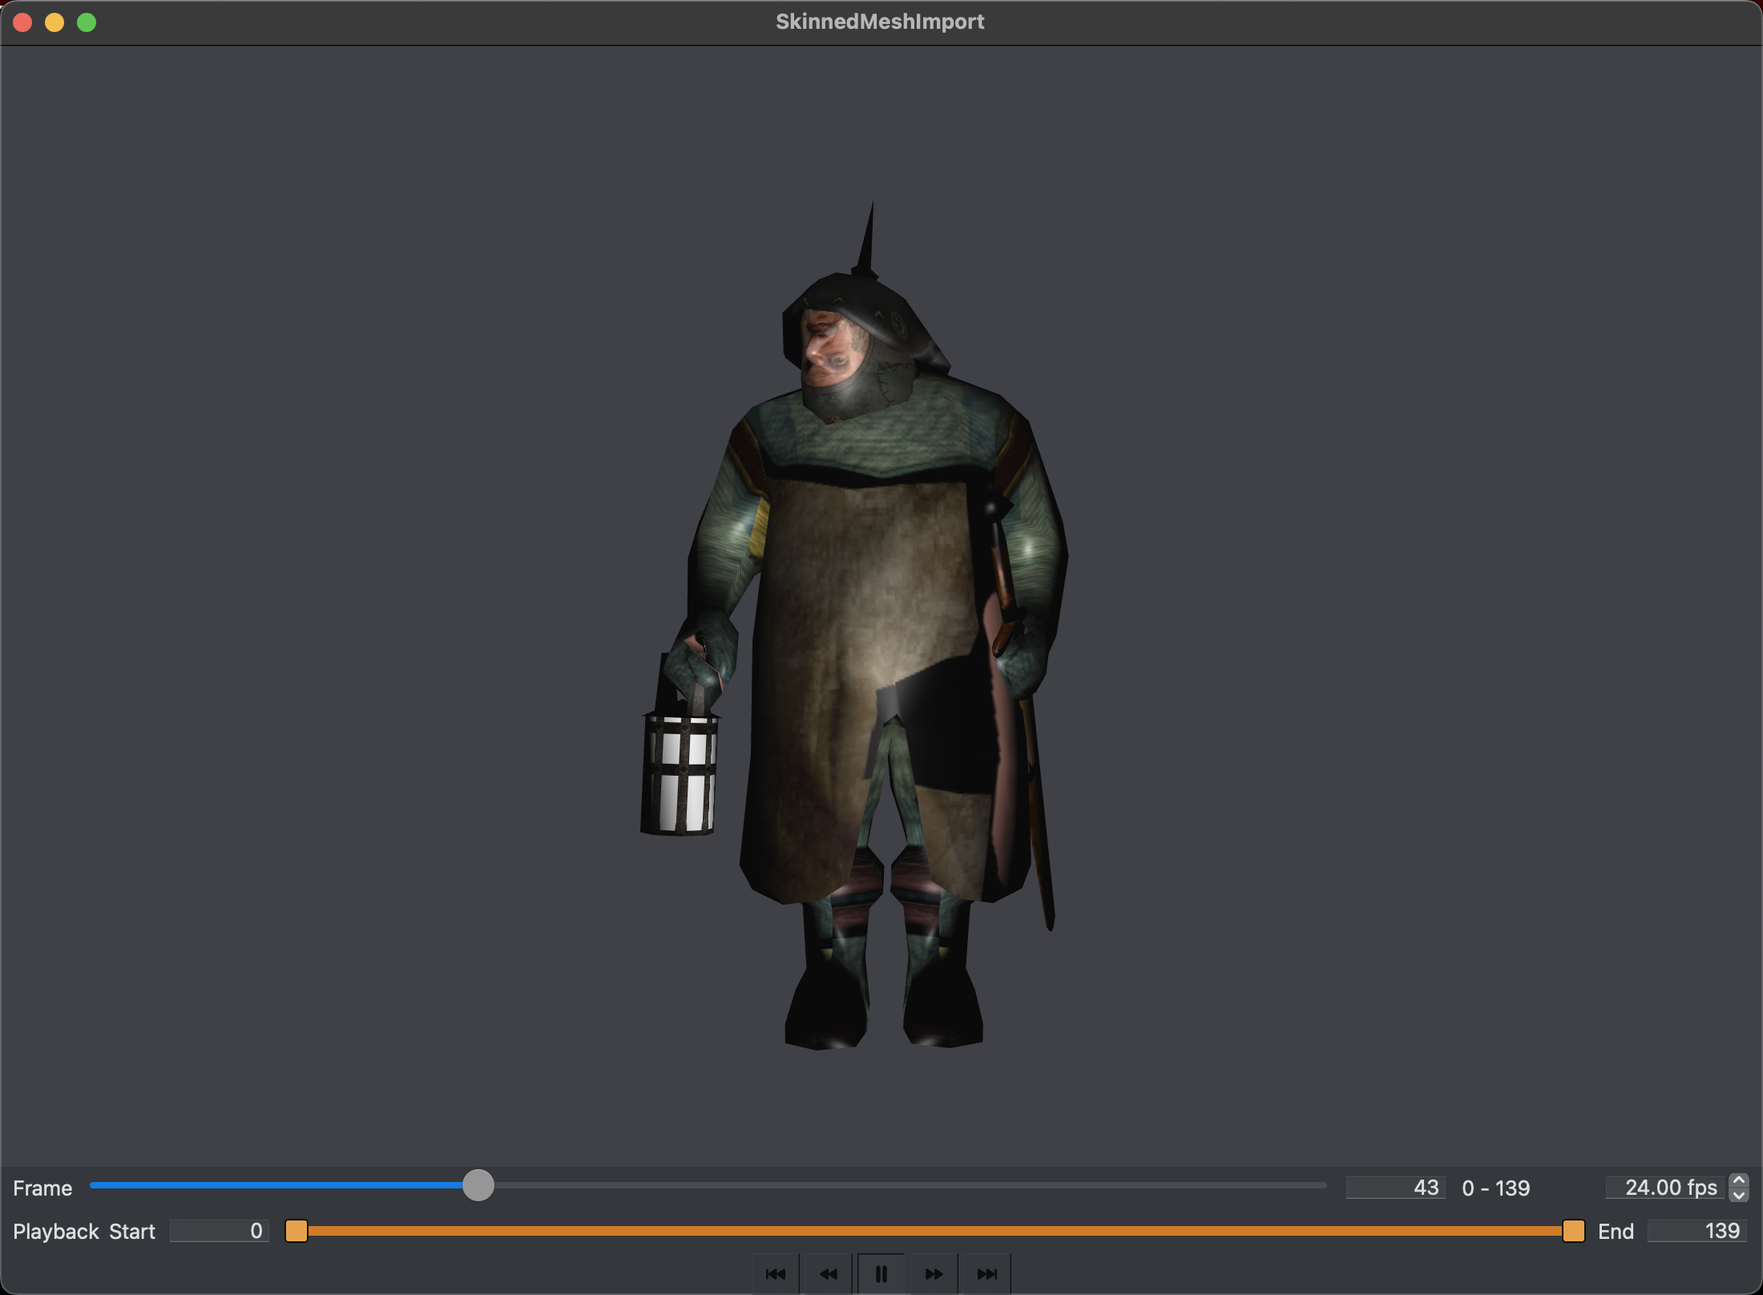
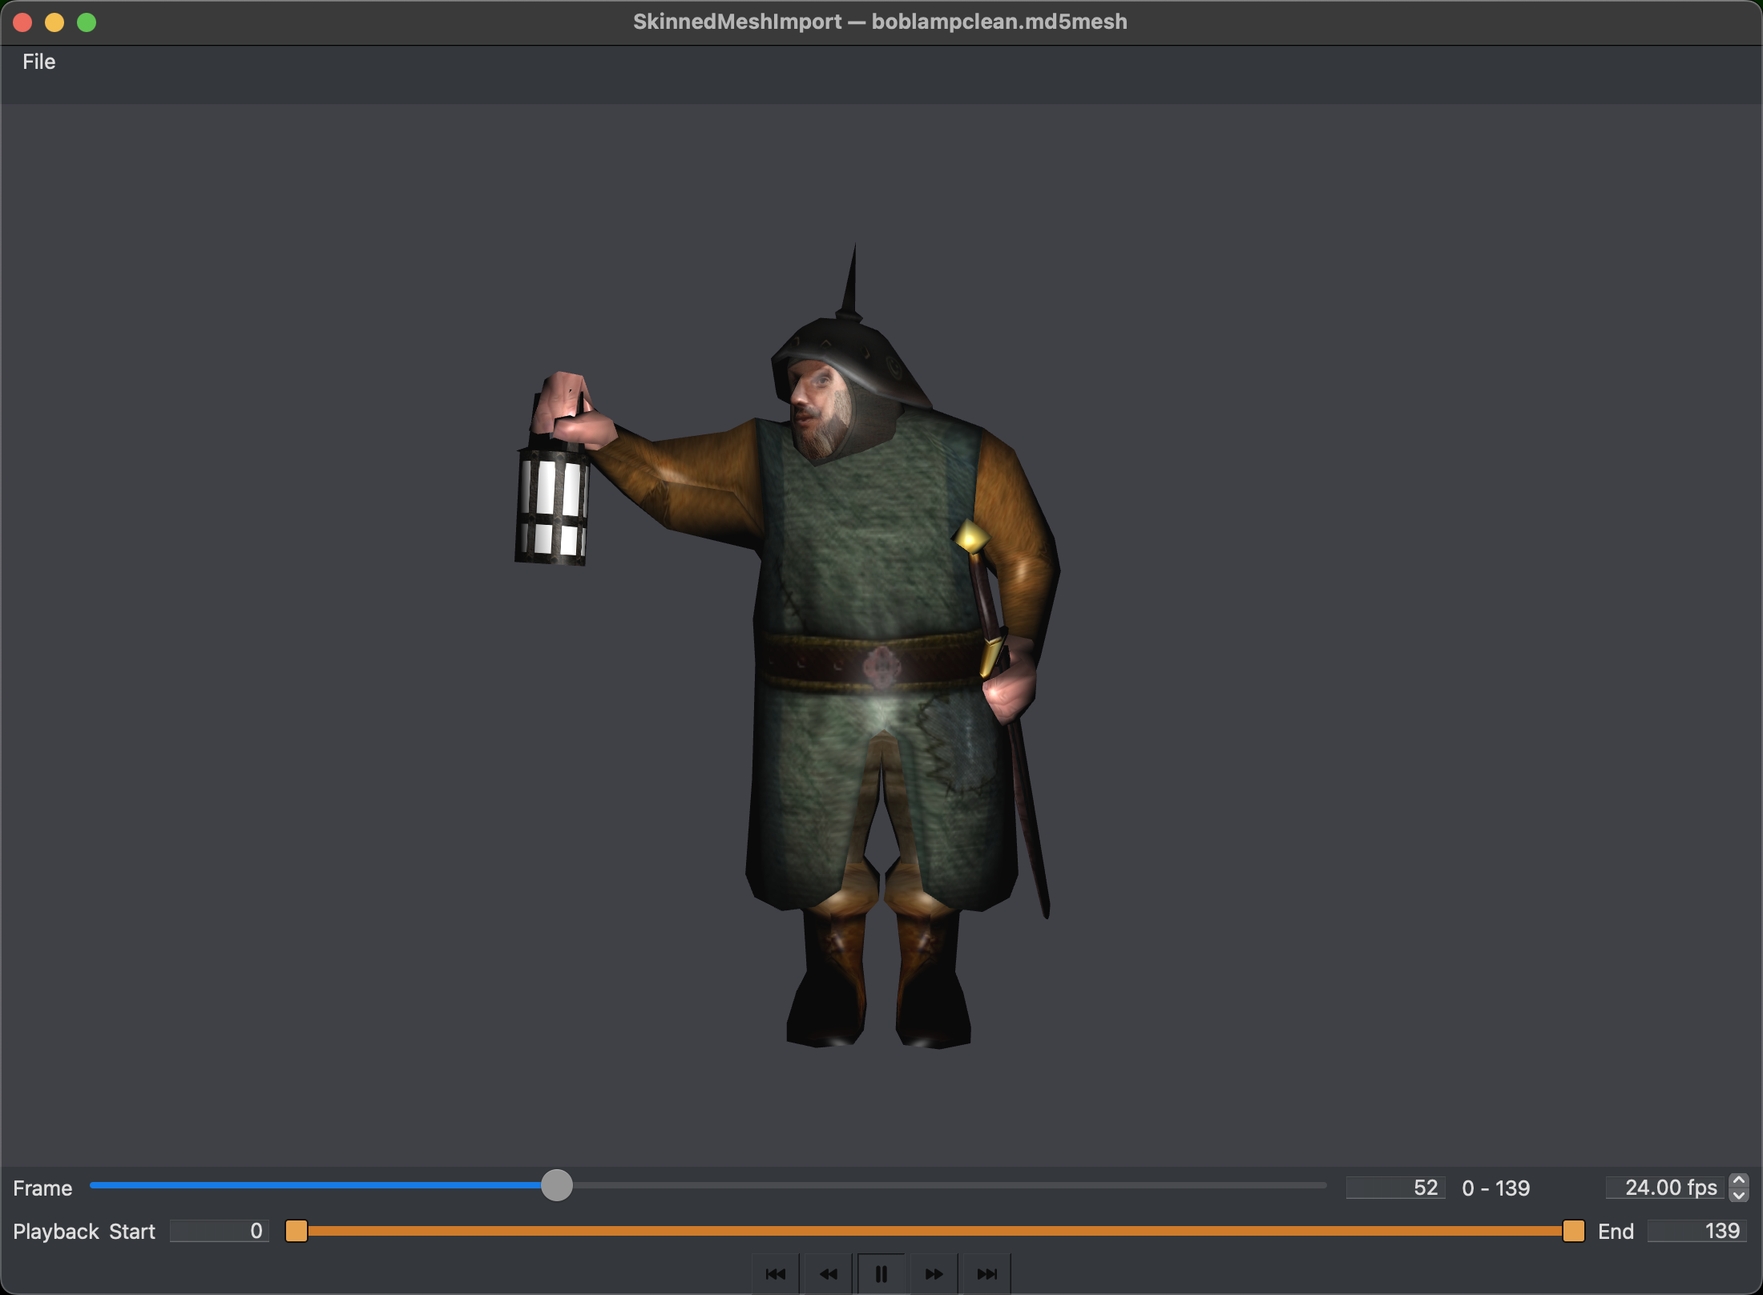
feat(skinned-mesh-import): add File > Open, harden against arbitrary meshes
Add a File menu (Cmd/Ctrl+O) to load a different rigged mesh at runtime,
per request. Testing it against other assets surfaced and fixed four more
bugs: impasse.errors.AssimpError subclasses BaseException so needs its
own except clause, a missing texture file crashed instead of falling back
to flat white, camera framing was hardcoded to MD5's Z-up convention
(now keyed off the .md5mesh extension specifically, not a bbox-shape
guess), and impasse.helper.get_bounding_box uses a static scene-graph
walk that doesn't match the actually-skinned vertex positions for a rig
where the mesh node and skeleton root aren't coincident.

Also fixes a real V-flip in the guard model's own textures: PyNGL's
Texture class uploads pixels top-row-first without flipping for OpenGL's
bottom-left origin, so mesh.py now flips V itself.

diff --git a/SkinnedMeshImport/main.py b/SkinnedMeshImport/main.py
@@ -16,9 +16,10 @@ import traceback
 from pathlib import Path
 
 import OpenGL.GL as gl
+from impasse.errors import AssimpError
 from mesh import MAX_BONES_PER_VERTEX, SkinnedMesh
 from MultiBufferIndexVAO import MultiBufferIndexVAO
-from ncca.ngl import Mat4, Vec3, Vec4, look_at, perspective
+from ncca.ngl import Mat4, Vec3, Vec4, logger, look_at, perspective
 from ncca.ngl.opengl import (
     PySideEventHandlingMixin,
     ShaderLib,
@@ -27,9 +28,16 @@ from ncca.ngl.opengl import (
     VertexData,
 )
 from PySide6.QtCore import Qt, QTimer
-from PySide6.QtGui import QSurfaceFormat
+from PySide6.QtGui import QAction, QKeySequence, QSurfaceFormat
 from PySide6.QtOpenGL import QOpenGLWindow
-from PySide6.QtWidgets import QApplication, QMainWindow, QVBoxLayout, QWidget
+from PySide6.QtWidgets import (
+    QApplication,
+    QFileDialog,
+    QMainWindow,
+    QMessageBox,
+    QVBoxLayout,
+    QWidget,
+)
 from timeline import TimelineWidget
 
 DEMO_DIR = Path(__file__).resolve().parent
@@ -37,6 +45,13 @@ DEFAULT_MODEL = DEMO_DIR / "models" / "guard" / "boblampclean.md5mesh"
 
 SKIN_SHADER = "Skin"
 VAO_NAME = "SkinnedMeshVAO"
+# Matches shaders/SkinVertex.glsl's `const int MAX_BONES`. A mesh with more
+# bones than this still loads and draws -- the extra bones are just left
+# unanimated, since there's no gBones[] uniform slot to put them in.
+MAX_BONES = 128
+MESH_FILE_FILTER = (
+    "Rigged meshes (*.md5mesh *.dae *.fbx *.gltf *.glb *.x *.bvh *.obj);;All files (*)"
+)
 
 _APP_STYLE = """
 QMainWindow, QWidget { background: #34373b; color: #dedede; }
@@ -69,6 +84,7 @@ class SkinViewport(PySideEventHandlingMixin, QOpenGLWindow):
         self.current_frame = 0
         self.bone_transforms: list[Mat4] = []
         self._texture_ids: dict[str, int] = {}
+        self._fallback_texture_id: int | None = None
 
     # ------------------------------------------------------------- OpenGL
 
@@ -134,22 +150,90 @@ class SkinViewport(PySideEventHandlingMixin, QOpenGLWindow):
             path = submesh.texture_path
             if path is None or path in self._texture_ids:
                 continue
-            texture = Texture(path)
-            self._texture_ids[path] = texture.set_texture_gl()
+            try:
+                texture_id = Texture(path).set_texture_gl()
+                if texture_id == 0:
+                    raise RuntimeError("empty image")
+            except Exception as error:
+                # Test assets pulled in from elsewhere sometimes reference a
+                # texture that was never shipped alongside them -- keep the
+                # mesh visible (flat white) rather than losing the whole load.
+                logger.warning(
+                    f"Could not load texture {path!r} ({error}); using a flat fallback"
+                )
+                texture_id = self._fallback_texture()
+            self._texture_ids[path] = texture_id
+
+    def _fallback_texture(self) -> int:
+        if self._fallback_texture_id is None:
+            self._fallback_texture_id = gl.glGenTextures(1)
+            gl.glBindTexture(gl.GL_TEXTURE_2D, self._fallback_texture_id)
+            gl.glTexImage2D(
+                gl.GL_TEXTURE_2D,
+                0,
+                gl.GL_RGB,
+                1,
+                1,
+                0,
+                gl.GL_RGB,
+                gl.GL_UNSIGNED_BYTE,
+                bytes([255, 255, 255]),
+            )
+        return self._fallback_texture_id
+
+    def load_model(self, model_path: Path) -> None:
+        """Replace the current mesh with the one at ``model_path``.
+
+        Raises whatever ``SkinnedMesh`` raises (bad file, no animation
+        track, ...) without touching the currently-loaded mesh -- the
+        caller is expected to catch that and report it.
+        """
+        new_mesh = SkinnedMesh(str(model_path))
+        if len(new_mesh.bone_names) > MAX_BONES:
+            logger.warning(
+                f"{model_path.name} has {len(new_mesh.bone_names)} bones, "
+                f"more than the shader's MAX_BONES ({MAX_BONES}) -- the "
+                "extras will be unanimated"
+            )
+
+        self.makeCurrent()
+        if hasattr(self, "vao"):
+            self.vao.remove_vao()
+        if self._texture_ids:
+            gl.glDeleteTextures(list(set(self._texture_ids.values())))
+        self._texture_ids = {}
+        self._fallback_texture_id = None
+
+        self.model_path = model_path
+        self.mesh = new_mesh
+        self._build_vao()
+        self._load_textures()
+        self._frame_camera()
+        self.set_frame(0)
 
     def _frame_camera(self) -> None:
-        # This model's animation data is Z-up (MD5/idTech convention), so
-        # frame it front-on along -Y with Z as up, rather than NGL's usual
-        # Y-up camera setup.
         bbox_min, bbox_max = self.mesh.bounding_box()
         centre = Vec3(
             (bbox_min[0] + bbox_max[0]) * 0.5,
             (bbox_min[1] + bbox_max[1]) * 0.5,
             (bbox_min[2] + bbox_max[2]) * 0.5,
         )
-        height = bbox_max[2] - bbox_min[2]
-        eye = Vec3(centre.x, bbox_min[1] - height * 1.5, centre.z)
-        self.view = look_at(eye, centre, Vec3(0.0, 0.0, 1.0))
+        # MD5 (idTech) is always Z-up; every other format this demo can
+        # load ends up Y-up in its post-import world space. There's no
+        # reliable way to tell up from bounding-box shape alone -- a
+        # character posed with an arm held out (like this demo's own
+        # guard model) can be wider than it is tall -- so this keys off
+        # the one format whose up axis is a fixed, known property rather
+        # than guessing per-asset.
+        if self.model_path.suffix.lower() == ".md5mesh":
+            height = bbox_max[2] - bbox_min[2]
+            eye = Vec3(centre.x, bbox_min[1] - height * 1.5, centre.z)
+            up = Vec3(0.0, 0.0, 1.0)
+        else:
+            height = bbox_max[1] - bbox_min[1]
+            eye = Vec3(centre.x, centre.y, bbox_max[2] + height * 1.5)
+            up = Vec3(0.0, 1.0, 0.0)
+        self.view = look_at(eye, centre, up)
         self.eye = eye
 
     def set_frame(self, frame: int) -> None:
@@ -199,7 +283,7 @@ class SkinViewport(PySideEventHandlingMixin, QOpenGLWindow):
         ShaderLib.set_uniform("material.specular", 0.4, 0.4, 0.4, 1.0)
         ShaderLib.set_uniform("material.shininess", 32.0)
 
-        for index, transform in enumerate(self.bone_transforms):
+        for index, transform in enumerate(self.bone_transforms[:MAX_BONES]):
             ShaderLib.set_uniform(f"gBones[{index}]", transform)
 
         gl.glActiveTexture(gl.GL_TEXTURE0)
@@ -247,12 +331,58 @@ class MainWindow(QMainWindow):
         self.timeline.next_requested.connect(self._step_forward)
         self.timeline.last_requested.connect(self._go_to_last_frame)
 
+        self._create_menu()
+        self._sync_timeline_to_mesh()
+        self._set_playing(True)
+        self._update_title()
+
+    def _create_menu(self) -> None:
+        self.menuBar().setNativeMenuBar(False)
+        file_menu = self.menuBar().addMenu("&File")
+
+        open_action = QAction("&Open Mesh...", self)
+        open_action.setShortcut(QKeySequence.StandardKey.Open)
+        open_action.triggered.connect(self._open_file_dialog)
+        file_menu.addAction(open_action)
+
+        quit_action = QAction("&Quit", self)
+        quit_action.setShortcut(QKeySequence.StandardKey.Quit)
+        quit_action.triggered.connect(self.close)
+        file_menu.addAction(quit_action)
+
+    def _open_file_dialog(self) -> None:
+        start_dir = str(self.viewport.model_path.parent)
+        filename, _ = QFileDialog.getOpenFileName(
+            self, "Open Rigged Mesh", start_dir, MESH_FILE_FILTER
+        )
+        if not filename:
+            return
+        self._set_playing(False)
+        try:
+            self.viewport.load_model(Path(filename))
+        # impasse.errors.AssimpError subclasses BaseException, not Exception,
+        # so a plain `except Exception` misses the exact case this exists
+        # for -- a file assimp can't import.
+        except (Exception, AssimpError) as error:
+            QMessageBox.critical(
+                self,
+                "Unable to load mesh",
+                f"Could not load {Path(filename).name}.\n\n{error}",
+            )
+            return
+        self._sync_timeline_to_mesh()
+        self._set_playing(True)
+        self._update_title()
+
+    def _update_title(self) -> None:
+        self.setWindowTitle(f"SkinnedMeshImport — {self.viewport.model_path.name}")
+
+    def _sync_timeline_to_mesh(self) -> None:
         mesh = self.viewport.mesh
         frame_count = int(round(mesh.duration())) + 1
         frame_time = 1.0 / mesh.ticks_per_second()
         self.timeline.set_clip(frame_count, frame_time)
         self._set_playback_fps(self.timeline.playback_fps())
-        self._set_playing(True)
 
     def _set_playing(self, playing: bool) -> None:
         self._playing = playing

diff --git a/SkinnedMeshImport/mesh.py b/SkinnedMeshImport/mesh.py
@@ -15,7 +15,6 @@ from pathlib import Path
 import cffi
 import impasse
 import numpy as np
-from impasse import helper
 from impasse.constants import ProcessingStep
 from impasse.structs_base import ffi as _impasse_ffi
 from ncca.ngl import Mat4, Quaternion, Vec3
@@ -234,7 +233,11 @@ class SkinnedMesh:
                 )
                 if uv_channel is not None:
                     uv = uv_channel[i]
-                    texcoords.append((float(uv[0]), float(uv[1])))
+                    # ncca.ngl.opengl.Texture uploads pixels in the order
+                    # PIL decodes them (row 0 = top of the image) without
+                    # flipping for OpenGL's bottom-left texture origin, so
+                    # V needs flipping here rather than in the library.
+                    texcoords.append((float(uv[0]), 1.0 - float(uv[1])))
                 else:
                     texcoords.append((0.0, 0.0))
                 bone_ids.append(mesh_bone_ids[i])
@@ -266,9 +269,37 @@ class SkinnedMesh:
 
     # ---------------------------------------------------------- animation
 
-    def bounding_box(self) -> tuple[list[float], list[float]]:
-        """Return the (min, max) corners of the scene's world-space bounding box."""
-        return helper.get_bounding_box(self._scene)
+    def skinned_positions(self, time_seconds: float = 0.0) -> np.ndarray:
+        """Return every vertex position after GPU-equivalent LBS skinning.
+
+        Deliberately not ``impasse.helper.get_bounding_box`` (which walks
+        the *static* scene-graph node transforms): that only lines up with
+        the actually-rendered, bone-skinned vertex positions when the mesh
+        node and the skeleton root happen to be coincident in the scene
+        graph, which is true for MD5 (mesh and skeleton share one frame)
+        but not guaranteed for an arbitrary rig -- e.g. it's off by tens of
+        units for the Softimage XSI-exported test asset this was found
+        against.
+        """
+        transforms = self.bone_transforms(time_seconds)
+        bone_matrices = np.stack([t.to_numpy() for t in transforms], axis=0)
+        ids = self.bone_ids.astype(np.int64)
+        influences = bone_matrices[ids]  # (vertex, influence, 4, 4)
+        blended = (influences * self.bone_weights[:, :, None, None]).sum(axis=1)
+        homogeneous = np.concatenate(
+            [self.positions, np.ones((len(self.positions), 1), dtype=np.float32)],
+            axis=1,
+        )
+        # row-vector convention: v_row @ M
+        skinned = np.einsum("ni,nij->nj", homogeneous, blended)
+        return skinned[:, :3]
+
+    def bounding_box(
+        self, time_seconds: float = 0.0
+    ) -> tuple[list[float], list[float]]:
+        """Return the (min, max) corners of the skinned mesh's bounding box."""
+        positions = self.skinned_positions(time_seconds)
+        return positions.min(axis=0).tolist(), positions.max(axis=0).tolist()
 
     def duration(self) -> float:
         """Duration of the (only) animation, in ticks."""

diff --git a/SkinnedMeshImport/README.md b/SkinnedMeshImport/README.md
@@ -11,13 +11,16 @@ A PyNGL port of the `AssetImportDemos/SkeletalAnimation` demo from [NGL9Demos](h
 
 ## Controls
 
-| Key / control      | Action                                    |
-| :------------------ | :----------------------------------------- |
-| LMB / RMB / wheel   | rotate / pan / zoom                        |
-| `W` / `S`            | wireframe / solid fill                     |
-| `Space`               | reset camera                               |
-| `Esc`                 | quit                                       |
-| Timeline transport   | play/pause, step, scrub, playback rate/range |
+| Key / control            | Action                                        |
+| :------------------------ | :---------------------------------------------- |
+| LMB / RMB / wheel        | rotate / pan / zoom                           |
+| `W` / `S`                  | wireframe / solid fill                        |
+| `Space`                     | reset camera                                  |
+| `Esc`                       | quit                                          |
+| `Cmd`/`Ctrl` + `O`, or File > Open | load a different rigged mesh                |
+| Timeline transport       | play/pause, step, scrub, playback rate/range  |
+
+File > Open isn't limited to MD5 — it'll hand anything you pick to impasse, so any rigged format assimp supports (COLLADA, FBX, glTF, ...) is worth trying. Two things it copes with rather than crashing on: a file assimp can't import at all (`impasse.errors.AssimpError`, which — unusually — subclasses `BaseException` rather than `Exception`, so it needs its own `except` clause), and a mesh whose material references a texture file that was never shipped alongside it (falls back to flat white per missing texture, logged as a warning, rather than losing the whole mesh — PyNGL's `Texture`/`Image` raises a confusing `AttributeError` for a missing file rather than a clean one). The camera also picks Z-up framing only for `.md5mesh` specifically (a fixed property of that format) and Y-up for everything else, rather than guessing from the mesh's bounding-box shape — a character posed with a limb held out (like this demo's own guard, holding its lamp arm out) can be wider than it is tall, so shape isn't a reliable signal.
 
 ## impasse has two struct bugs
 
@@ -27,6 +30,10 @@ Getting this working meant finding two genuine bugs in impasse 5.4.2 (the latest
 2. **`aiQuatKey`**: impasse's cdef is missing the trailing `aiAnimInterpolation mInterpolation` enum that real assimp has on both `aiVectorKey` and `aiQuatKey`. It doesn't matter for `aiVectorKey` — the struct's 20 real bytes round up to 24 for 8-byte alignment regardless, so the missing field is absorbed by padding. It does matter for `aiQuatKey`, whose 24 real bytes are already aligned: impasse computes a 24-byte element stride where the real array uses 32, so `rotation_keys[i]` for `i > 0` silently reads from the wrong offset — the first key looks fine, everything after doesn't.
 
 Both fields are read instead by re-casting the same underlying struct pointer through a small private `cffi` definition with the corrected layout — see `_read_bone_weights_and_offset` and `_read_rotation_keys` in `mesh.py`.
+
+## One PyNGL texture-convention gotcha, not an impasse bug
+
+`ncca.ngl.opengl.Texture` uploads pixels in the order PIL decodes them (row 0 = the top of the image) without flipping them for OpenGL's bottom-left texture origin. Everything worked *except* the textures until this was accounted for — the model was clearly the right shape, correctly posed, just muddy and wrong-looking, which took a moment to place as a V-flip rather than something wrong with the skinning. `mesh.py` flips V itself (`1.0 - v`) when building the UV buffer, rather than in the library.
 
 ## Tests
 

diff --git a/docs/agent-sessions/2026-08-17-skinned-mesh-import-session.md b/docs/agent-sessions/2026-08-17-skinned-mesh-import-session.md
@@ -107,3 +107,56 @@ Visual verification: ran the demo live and screenshotted it at multiple
 points across the full 140-frame animation (0, 45, 56, 84, 106, 139) to
 confirm the pose stays coherent throughout, not just at the frame or two
 a quick smoke test would happen to catch.
+
+## Follow-up: File > Open, tested against other meshes
+
+Jon asked for a File > Open dialog so other rigged meshes could be tried,
+not just the bundled guard model. Added `SkinViewport.load_model()` (tears
+down the old VAO/textures, loads the new `SkinnedMesh`, rebuilds) and a
+File menu (`Cmd/Ctrl+O`) in `main.py`. Testing it against the other
+rigged assets sitting in `NGL9Demos/AssetImportDemos/Models/` (bobWalk.dae,
+horse-3ds.3ds, JaiquaFromXSI.dae, TurbochiFromXSI.dae) surfaced four more
+real bugs, all fixed:
+
+- **`impasse.errors.AssimpError` subclasses `BaseException`, not
+  `Exception`.** The dialog's `except Exception` silently failed to catch
+  a genuinely-broken file (`bobWalk.dae` — assimp itself can't import it,
+  unrelated to this demo) and crashed instead of showing the intended
+  error dialog. Needed `except (Exception, AssimpError)` explicitly.
+- **A mesh with a missing texture file crashed instead of loading.**
+  `JaiquaFromXSI.dae` references `jaiqua_red21a_fix.jpg`, which was never
+  shipped alongside it in NGL9Demos. `ncca.ngl.opengl.Texture`/`Image`
+  raises `AttributeError: 'Image' object has no attribute '_width'` for a
+  missing file rather than something catchable/clean. `_load_textures`
+  now catches any texture-load failure per-submesh and substitutes a 1x1
+  white fallback texture, logging a warning, rather than losing the whole
+  mesh load.
+- **Camera framing was hardcoded to MD5's Z-up convention.** Loading
+  `JaiquaFromXSI.dae` (Y-up, like most non-MD5 formats) rendered sideways.
+  Tried a "tallest bbox axis = up" heuristic first — it's wrong: the
+  guard model's own arm-out lamp pose makes X (85 units, arm span) taller
+  than Z (67, actual height), so bbox shape isn't a reliable signal.
+  Switched to keying off the file extension instead: Z-up only for
+  `.md5mesh` specifically (a fixed, known property of that format),
+  Y-up for everything else.
+- **`impasse.helper.get_bounding_box` computes a *static* scene-graph
+  bbox, not the actually-rendered (bone-skinned) one.** For MD5 the mesh
+  node and skeleton root happen to be coincident so this went unnoticed;
+  for the XSI-exported DAE they're not, and the static bbox put the
+  camera looking at empty space (right up-axis, wrong position/distance
+  entirely — only legs on screen, badly cropped). Replaced with
+  `SkinnedMesh.skinned_positions()`/`bounding_box()`, which runs the same
+  LBS blend as the vertex shader in numpy and takes min/max over the
+  actual result.
+
+Also, while re-screenshotting for the README with a working "other mesh"
+to compare against: the guard model's own textures turned out to be
+V-flipped the whole time (muddy/wrong-looking but not obviously upside
+down, since the mesh shape and skinning were already correct — easy to
+miss). `ncca.ngl.opengl.Texture` uploads pixels top-row-first without
+flipping for OpenGL's bottom-left origin; `mesh.py` now flips V itself
+(`1.0 - v`) when building the UV buffer.
+
+Commands re-run after all of the above: `pytest` (8 passed), `ruff check`
+and `ruff format --check` (clean), plus live visual checks of both the
+guard model and `JaiquaFromXSI.dae` loaded via the new Open dialog.
